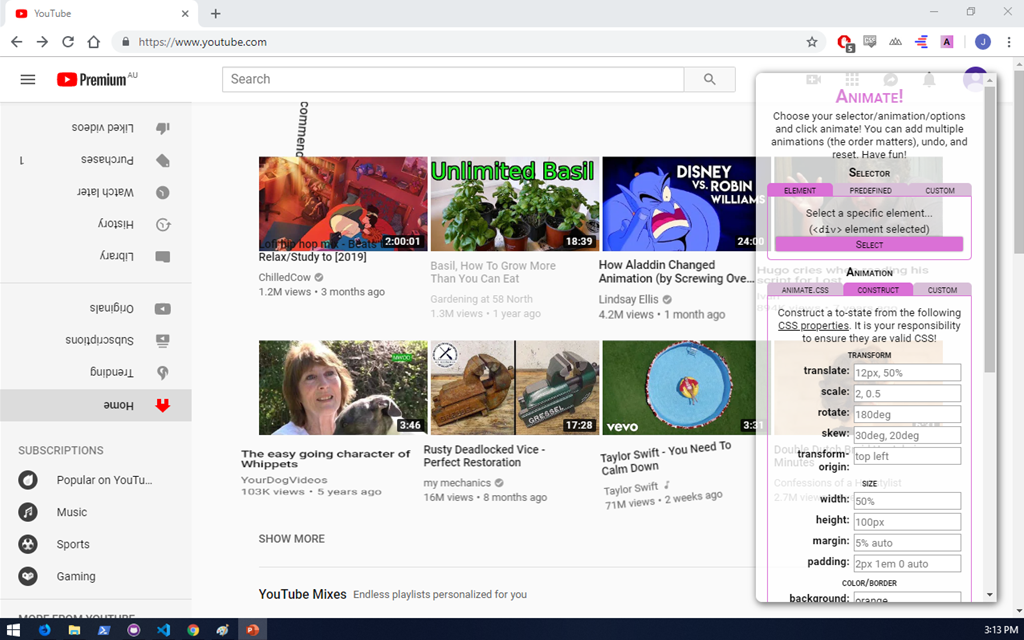
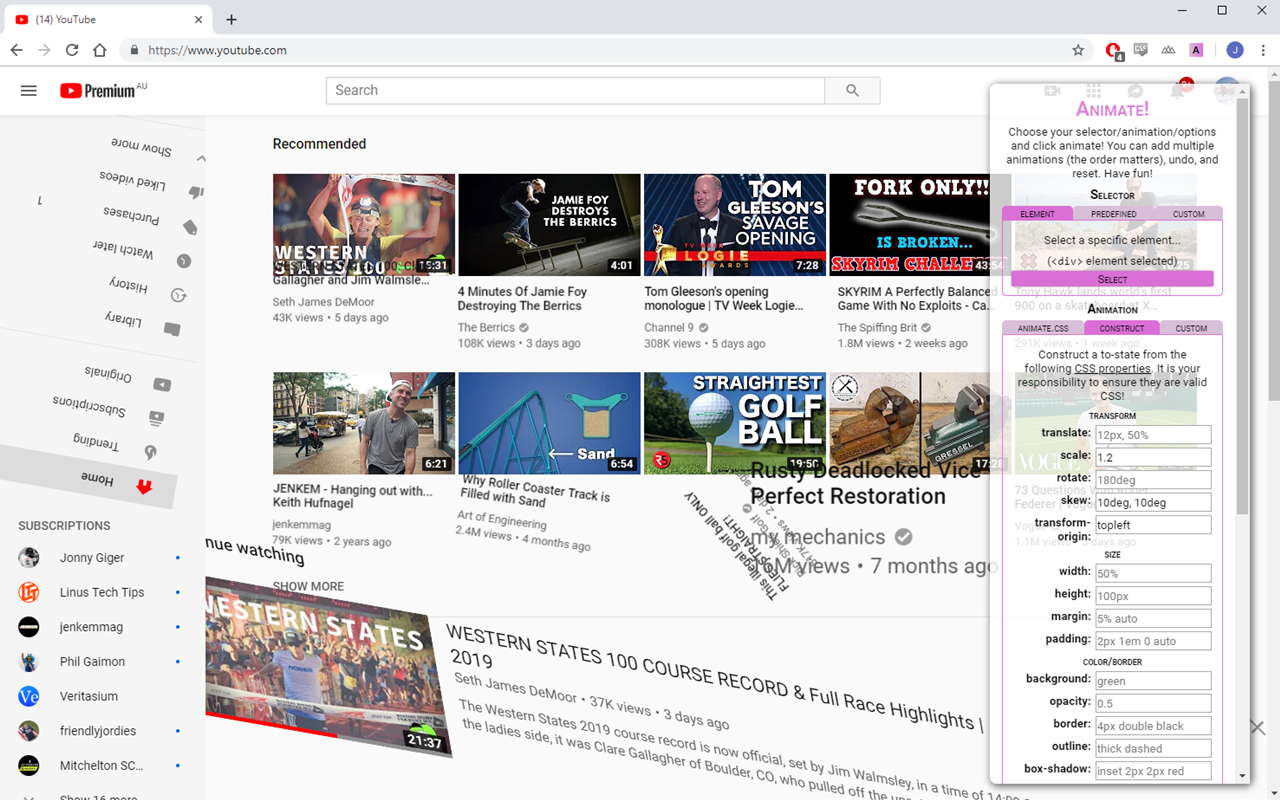
update to v1.0.1 release

diff --git a/README.md b/README.md
@@ -2,7 +2,26 @@
 <p align="center">
   <img src="https://github.com/jdclarke5/animate/blob/master/icons/animate-96.png">
 </p>
+## Animate!
 
 Animate the web! Because it's a bit of fun.
 
-This project is built using the [WebExtensions API](https://developer.mozilla.org/en-US/docs/Mozilla/Add-ons/WebExtensions) using JavaScript ES6. It is natively compatible with Mozilla Firefox and has been made compatible with Google Chrome using Mozilla's [webextension-polyfill](https://github.com/mozilla/webextension-polyfill).
+Available as a browser extension for [Mozilla Firefox](https://addons.mozilla.org/en-US/firefox/addon/animate-the-web/) and [Google Chrome](https://chrome.google.com/webstore/detail/animate/kkmbdnidlbkkhhdgchkagbdicfbfjahe).
+
+Choose your selector/animation/options and click Animate! Select specific elements using the mouse, or use CSS selectors. Apply predefined animations or construct your own using CSS properties. Choose animation options such as duration, timing, and direction. You can add multiple animations, undo, and reset.
+
+You can use it just for fun, or as a tool for web development. Or both!
+
+
+<p align="center">
+  <img src="https://github.com/jdclarke5/animate/blob/master/screenshots/screen-1.PNG">
+</p>
+<p align="center">
+  <img src="https://github.com/jdclarke5/animate/blob/master/screenshots/screen-2.PNG">
+</p>
+<p align="center">
+  <img src="https://github.com/jdclarke5/animate/blob/master/screenshots/screen-3.PNG">
+</p>
+This project is built using the [WebExtensions API](https://developer.mozilla.org/en-US/docs/Mozilla/Add-ons/WebExtensions) using JavaScript ES6. It is natively compatible with Mozilla Firefox and has been made compatible with Google Chrome using Mozilla's [webextension-polyfill](https://github.com/mozilla/webextension-polyfill). It uses the wonderful [animate.css](https://daneden.github.io/animate.css/) library of Daniel Eden.
+
+Contributions welcome. Just submit a pull request.
